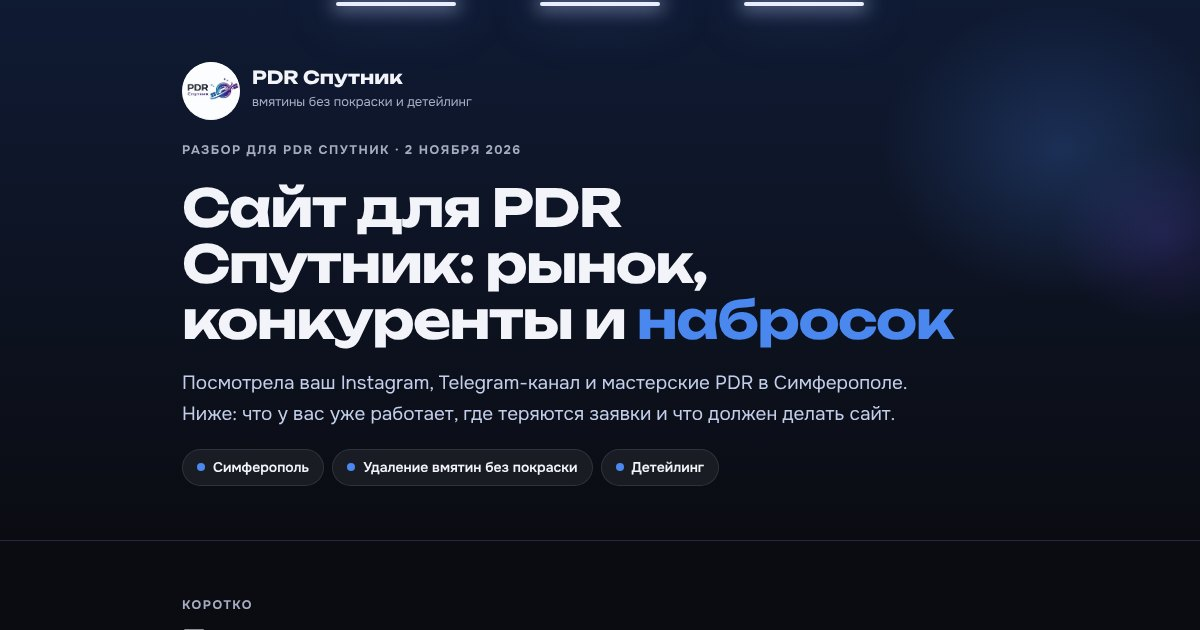
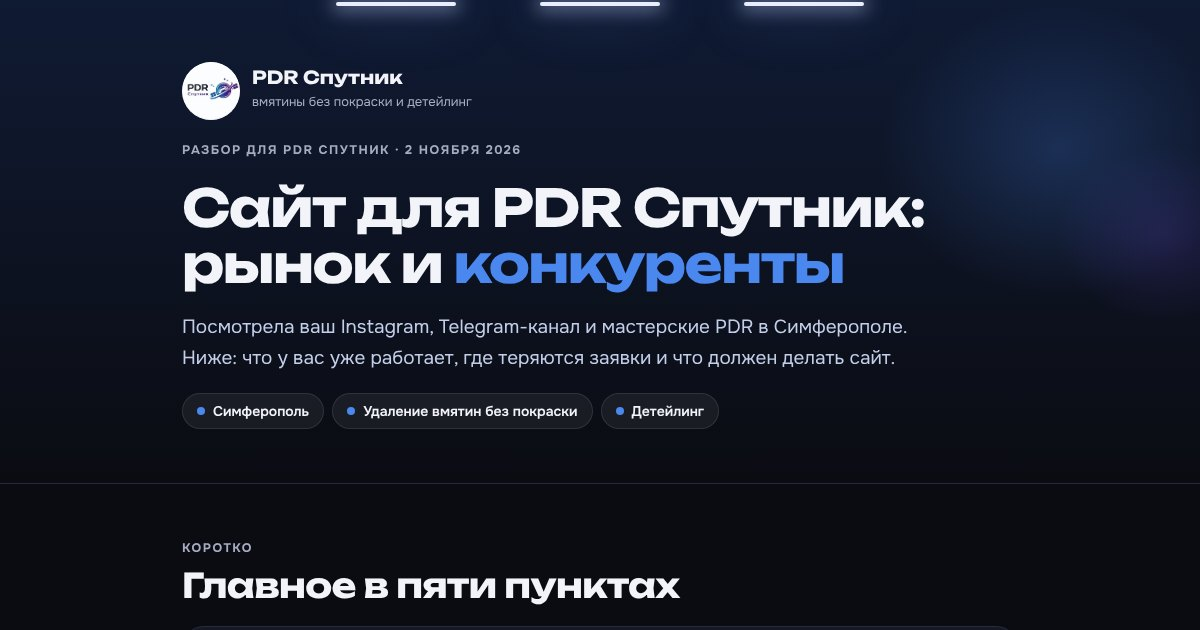
PDR Спутник: разбор без блока наброска по новому правилу
Claude-Session: https://claude.ai/code/session_01MqcZMGjxBWFrRhdN41bFta

diff --git a/sputnikpdr/analiz.html b/sputnikpdr/analiz.html
@@ -5,7 +5,7 @@
 <meta name="viewport" content="width=device-width,initial-scale=1,viewport-fit=cover">
 <meta name="description" content="Разбор для PDR Спутник: сильные стороны, где теряются заявки, мастерские PDR в Симферополе, задачи сайта и вопросы">
 <meta property="og:type" content="website">
-<meta property="og:title" content="Сайт для PDR Спутник: рынок, конкуренты и набросок">
+<meta property="og:title" content="Сайт для PDR Спутник: рынок и конкуренты">
 <meta property="og:description" content="Сильные стороны, где теряются заявки, пять мастерских PDR в Симферополе и что должен делать сайт">
 <meta property="og:image" content="https://mmaemi77-ctrl.github.io/sputnikpdr/og-analiz.jpg">
 <meta property="og:image:width" content="1200">
@@ -134,17 +134,6 @@ h3{font-size:17px;font-weight:700;line-height:1.3}
 .b.tg .th img{width:48px;height:48px;object-fit:cover;border-radius:8px}
 .chat .foot{font-size:13px;color:var(--muted);margin-top:6px}
 
-.draft{background:linear-gradient(135deg,#2A6AD8,#5B3FC4);color:#FFFFFF;border-radius:26px;padding:clamp(22px,3.4vw,34px);display:grid;grid-template-columns:minmax(0,1fr) minmax(0,1.05fr);gap:clamp(18px,3vw,34px)}
-.draft .eyebrow{color:rgb(255 255 255 / .82)}
-.draft h2{color:#FFFFFF;margin-bottom:0}
-.draft p{color:rgb(255 255 255 / .9);margin-top:12px}
-.draft ol{margin:0;padding:0;list-style:none;display:grid;gap:8px;counter-reset:d}
-.draft li{display:grid;grid-template-columns:28px minmax(0,1fr);column-gap:8px;align-items:baseline;font-size:15px;font-weight:600}
-.draft li::before{counter-increment:d;content:counter(d,decimal-leading-zero);font-weight:800;font-size:14px;opacity:.7}
-.draft li span{grid-column:2;font-size:13.5px;font-weight:400;opacity:.85}
-.draft .btn{background:#FFFFFF;color:#1C3E8A;margin-top:20px}
-@media (max-width:760px){.draft{grid-template-columns:1fr}}
-
 .ideas{display:grid;grid-template-columns:repeat(2,minmax(0,1fr));gap:12px}
 @media (max-width:680px){.ideas{grid-template-columns:1fr}}
 .ideas div{background:var(--surface);border:1px solid var(--line);border-radius:18px;padding:16px 18px;display:grid;gap:4px;align-content:start}
@@ -171,7 +160,7 @@ footer b{font-weight:800;letter-spacing:.06em;color:var(--ink)}
   <div class="wrap">
     <div class="brand"><img src="img/logo.png" alt="" width="58" height="58"><span><b>PDR Спутник</b><small>вмятины без покраски и&nbsp;детейлинг</small></span></div>
     <div class="eyebrow">Разбор для PDR Спутник · 2&nbsp;ноября 2026</div>
-    <h1>Сайт для PDR Спутник: рынок, конкуренты и&nbsp;<em>набросок</em></h1>
+    <h1>Сайт для PDR Спутник: рынок и&nbsp;<em>конкуренты</em></h1>
     <p>Посмотрела ваш Instagram, Telegram-канал и&nbsp;мастерские PDR в&nbsp;Симферополе. Ниже: что у&nbsp;вас уже работает, где теряются заявки и&nbsp;что должен делать сайт.</p>
     <div class="pills"><span>Симферополь</span><span>Удаление вмятин без покраски</span><span>Детейлинг</span></div>
   </div>
@@ -332,27 +321,6 @@ footer b{font-weight:800;letter-spacing:.06em;color:var(--ink)}
 • Алексей, +7&nbsp;978&nbsp;…</div>
         <p class="foot">Одно сообщение. Мастеру остаётся ответить ценой.</p>
       </div>
-    </div>
-  </section>
-
-  <section>
-    <div class="draft">
-      <div>
-        <div class="eyebrow">Набросок</div>
-        <h2 style="margin-top:8px">Главный экран и&nbsp;структура</h2>
-        <p>Главный экран можно потрогать: загрузите фото, выберите деталь и&nbsp;день, и&nbsp;увидите, какая заявка придёт вам. Ниже на&nbsp;той&nbsp;же странице все 8&nbsp;блоков сайта.</p>
-        <a class="btn" href="index.html">Открыть главный экран →</a>
-      </div>
-      <ol>
-        <li>Главный экран<span>обещание, график и&nbsp;факты</span></li>
-        <li>Оценка по&nbsp;фото и&nbsp;запись<span>фото, марка, деталь и&nbsp;день одной заявкой</span></li>
-        <li>Услуги<span>шесть услуг с&nbsp;ценой «от»</span></li>
-        <li>Работы до&nbsp;и&nbsp;после и&nbsp;видео<span>фото из&nbsp;канала и&nbsp;ваши рилс</span></li>
-        <li>Как проходит ремонт и&nbsp;гарантия</li>
-        <li>Отзывы</li>
-        <li>Вопросы и&nbsp;ответы</li>
-        <li>Контакты и&nbsp;график</li>
-      </ol>
     </div>
   </section>
 
